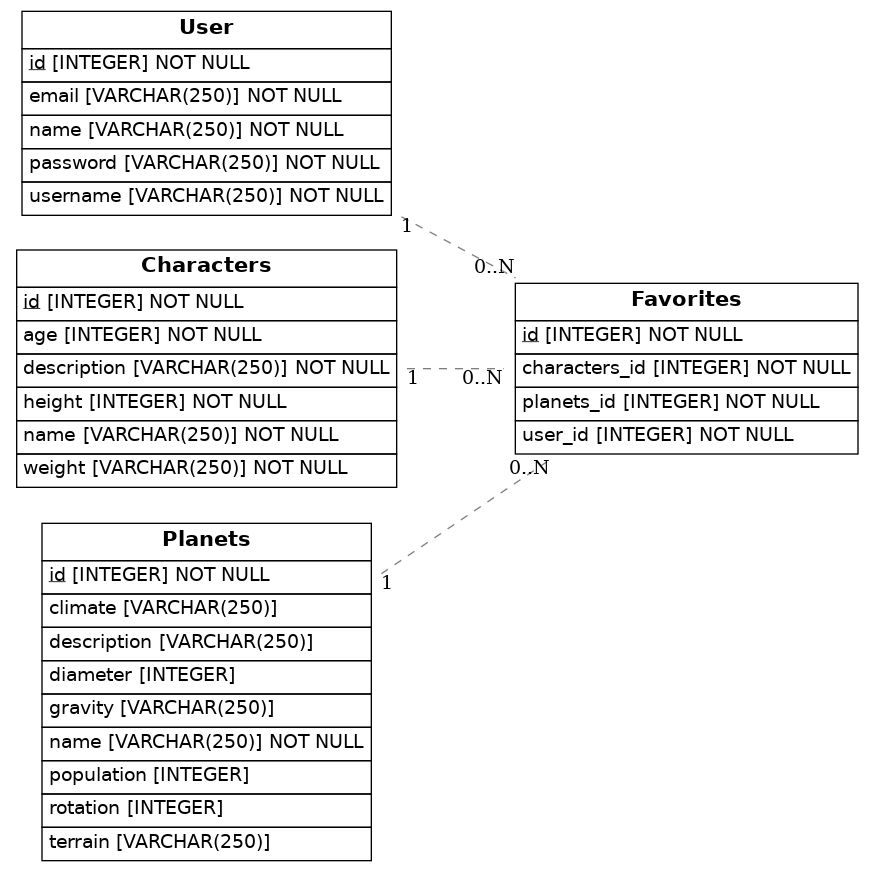
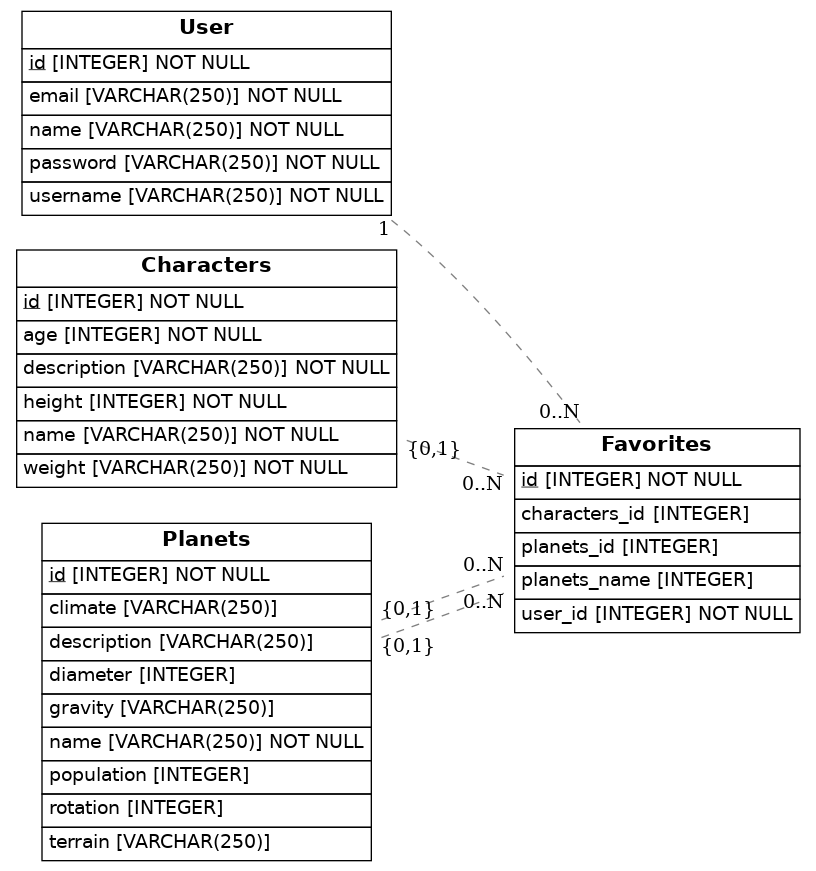
ready

Changed region(s): [[0.0306, 0.279, 1.0, 0.992], [0.0, 0.279, 0.5515, 0.558], [0.0, 0.0, 0.4902, 0.372]]

diff --git a/src/models.py b/src/models.py
@@ -24,10 +24,8 @@ class Favorites(Base):
 
     id = Column(Integer, primary_key=True)
     user_id = Column(Integer, ForeignKey('User.id'), nullable=False)
-    characters_id = Column(Integer, ForeignKey('Characters.id'), nullable=False)
-    planets_id = Column(Integer, ForeignKey('Planets.id'), nullable=False)
-
-
+    characters_id = Column(Integer, ForeignKey('Characters.id'), nullable= True)
+    planets_id = Column(Integer, ForeignKey('Planets.id'), nullable= True)
 
 
 class Characaters(Base):
@@ -54,6 +52,8 @@ class Planets(Base):
     population = Column(Integer, nullable= True)
     climate = Column(String(250), nullable= True)
     terrain = Column(String(250), nullable= True)
+
+
 
 ## Draw from SQLAlchemy base
 render_er(Base, 'diagram.png')
